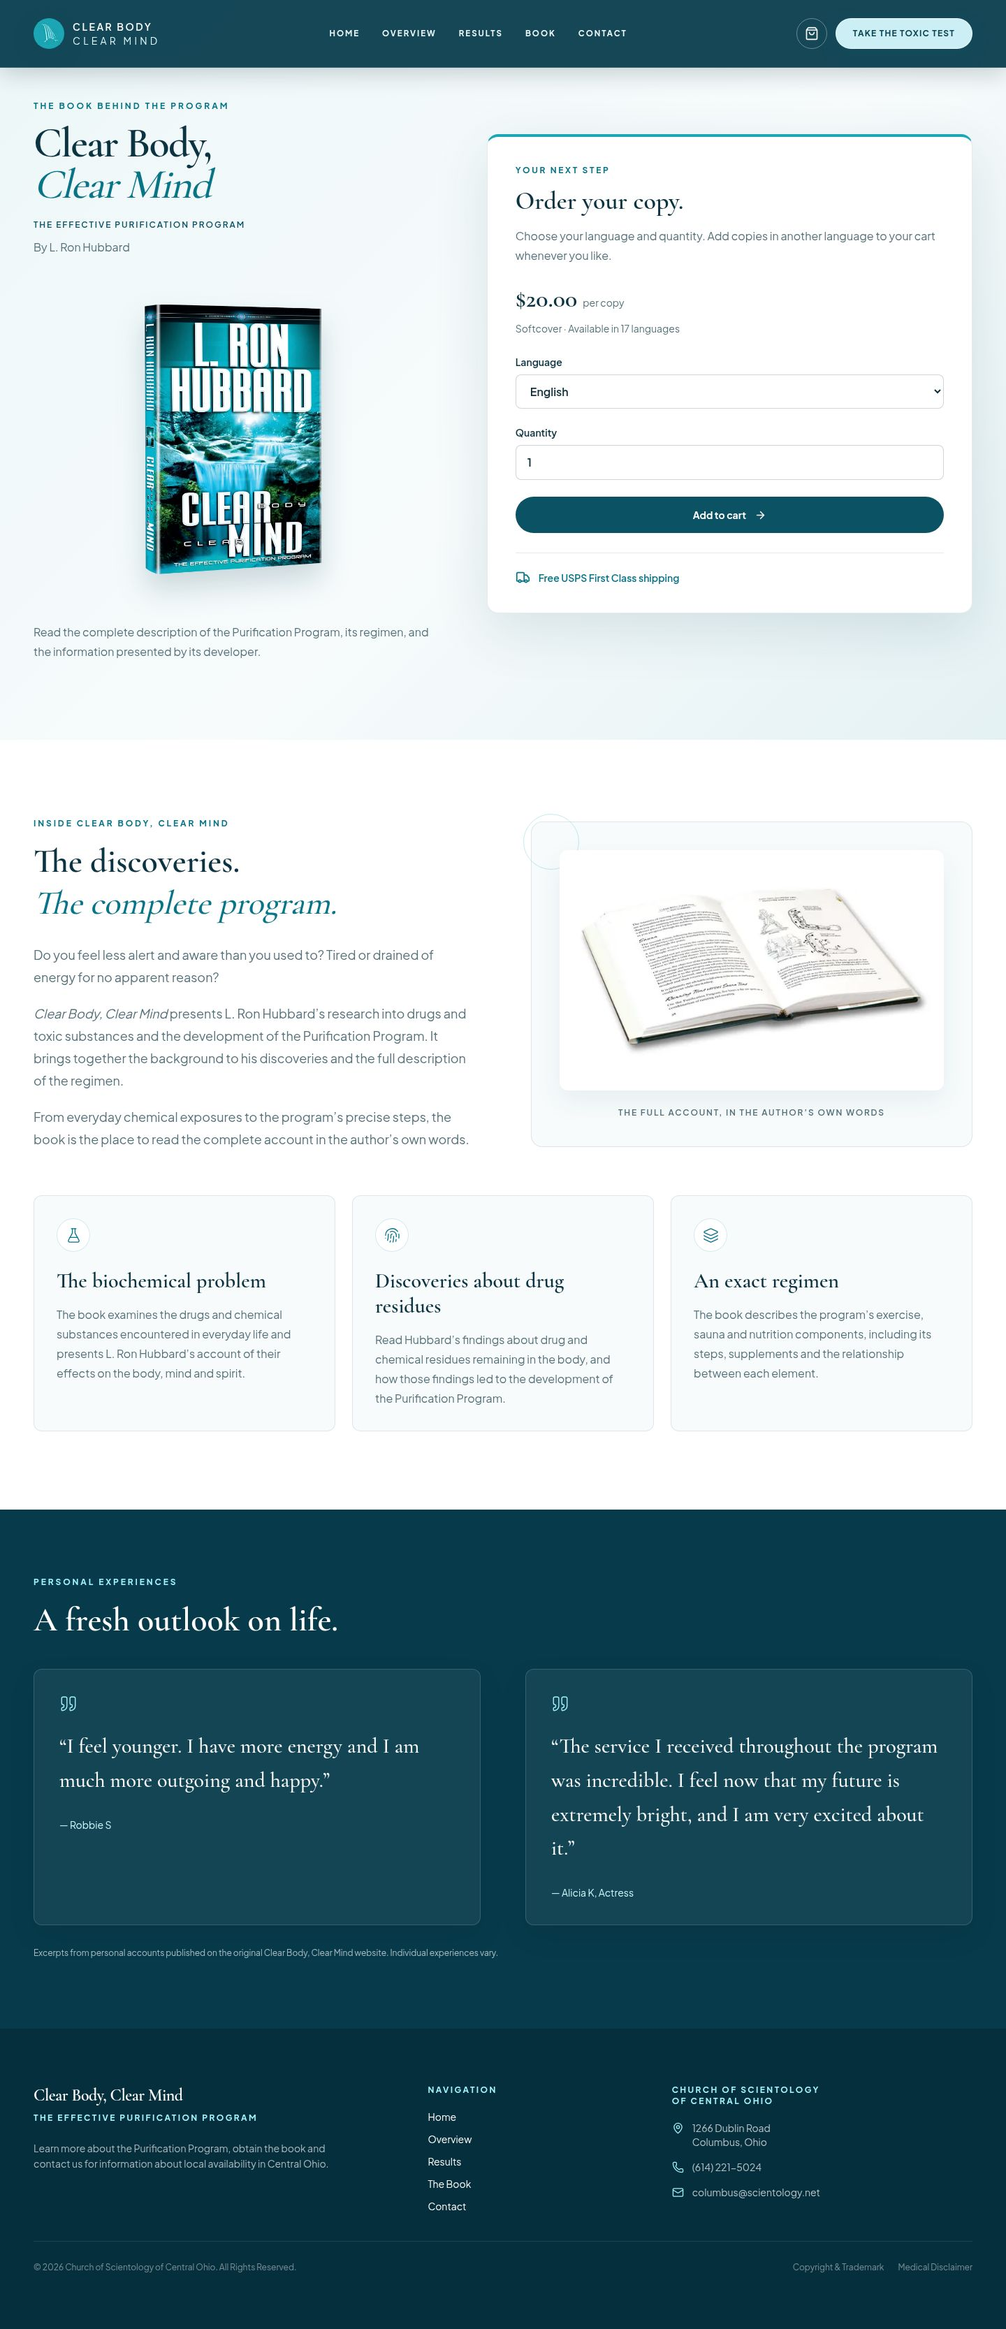
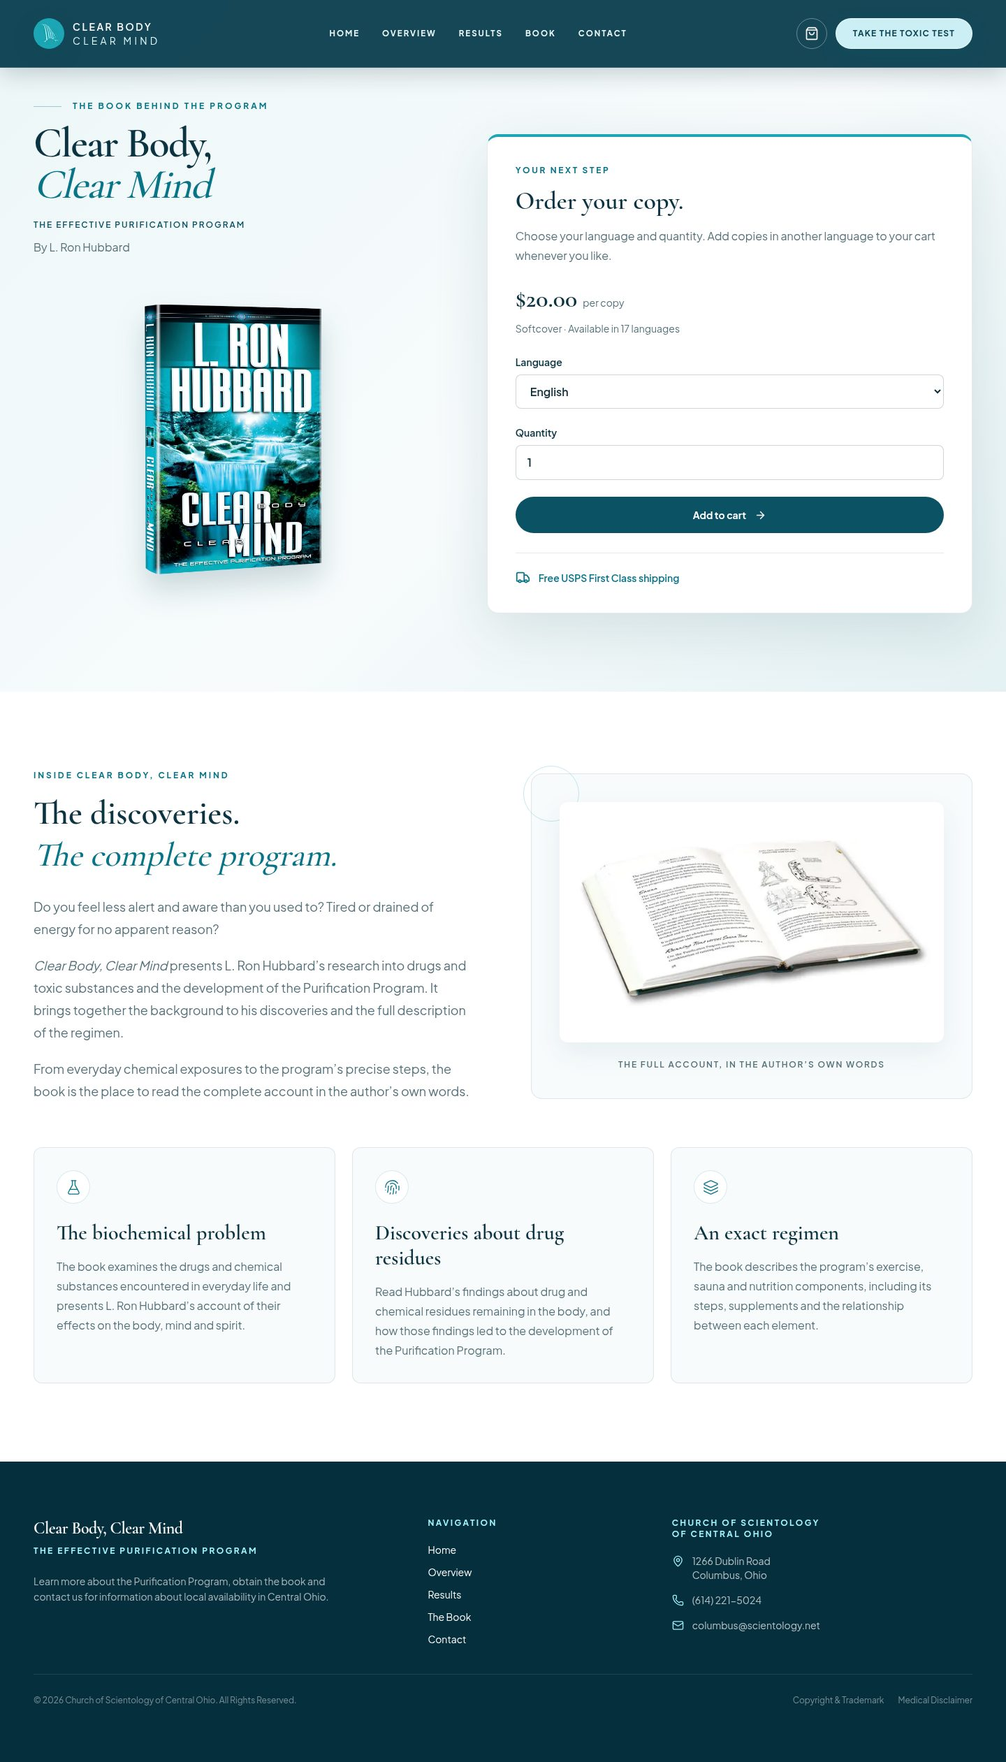
Refine all five pages with focused content, imagery, and layouts

diff --git a/components/program/FreshStart.tsx b/components/program/FreshStart.tsx
@@ -1,68 +1,23 @@
 import Image from "next/image";
+import ReportedGains from "@/components/program/ReportedGains";
 
 export default function FreshStart() {
   return (
-    <section className="relative isolate overflow-hidden bg-[#062f3d] text-white">
-      <div className="relative min-h-[800px] lg:min-h-[900px]">
-        <Image
-          src="/images/overview/fresh-start.png"
-          alt="A person looking toward a bright and expansive natural horizon"
-          fill
-          sizes="100vw"
-          className="object-cover object-center"
-        />
-
-        <div className="absolute inset-0 bg-[linear-gradient(90deg,rgba(2,30,41,0.94)_0%,rgba(2,30,41,0.82)_36%,rgba(2,30,41,0.4)_66%,rgba(2,30,41,0.16)_100%)]" />
-
-        <div className="absolute inset-0 bg-[linear-gradient(180deg,rgba(2,24,33,0.3)_0%,rgba(2,24,33,0.04)_38%,rgba(2,24,33,0.24)_70%,rgba(2,24,33,0.65)_100%)]" />
-
-        <div className="relative mx-auto flex min-h-[800px] w-full max-w-[1440px] items-center px-5 py-28 sm:px-8 lg:min-h-[900px] lg:px-12 lg:py-36">
-          <div className="relative max-w-3xl">
-            <div
-              aria-hidden="true"
-              className="pointer-events-none absolute -left-4 -top-20 hidden whitespace-nowrap font-display text-[90px] font-semibold leading-none tracking-[-0.07em] text-cyan-100/[0.07] lg:block xl:-left-10 xl:text-[122px]"
-            >
-              FRESH START
-            </div>
-
-            <div className="relative">
-              <div className="flex items-center gap-4">
-                <span className="h-px w-10 bg-cyan-200/65" />
-
-                <p className="text-xs font-bold uppercase tracking-[0.24em] text-cyan-100">
-                  Give Yourself a Fresh Start
-                </p>
-              </div>
-
-              <h2 className="mt-7 max-w-3xl font-display text-4xl font-semibold leading-[1.02] tracking-[-0.04em] text-white sm:text-5xl lg:text-7xl">
-                Step out of the fog and into a world that feels fresh and new.
-              </h2>
-
-              <div className="mt-8 max-w-2xl space-y-6 text-base leading-8 text-white/76 sm:text-lg sm:leading-9">
-                <p>
-                  The program is intended to free a person from the harmful
-                  effects attributed to past drugs and accumulated toxic
-                  residues, clearing the way for lasting mental and spiritual
-                  well-being.
-                </p>
-
-                <p>
-                  L. Ron Hubbard developed the Purification Program as a
-                  solution for addressing these substances and their continuing
-                  effects.
-                </p>
-
-                <p>
-                  People completing the program have reported a remarkable
-                  increase in vitality and a renewed ability to move forward
-                  toward greater things in life.
-                </p>
-              </div>
+    <section className="relative overflow-hidden bg-[#f7fbfc] px-5 py-20 sm:px-8 lg:px-12 lg:py-28" aria-labelledby="fresh-start-heading">
+      <div aria-hidden="true" className="pointer-events-none absolute -right-32 top-24 size-[520px] rounded-full bg-cyan-100/45 blur-3xl" />
+      <div className="relative mx-auto max-w-[1440px]">
+        <div className="grid items-center gap-10 lg:grid-cols-2 lg:gap-20">
+          <div>
+            <div className="flex items-center gap-4"><span className="h-px w-10 bg-[#087487]/35" /><p className="text-xs font-bold uppercase tracking-[0.24em] text-[#087487]">Give Yourself a Fresh Start</p></div>
+            <h2 id="fresh-start-heading" className="mt-7 font-display text-4xl font-semibold leading-tight tracking-[-0.03em] text-[#0c3341] sm:text-5xl">Step out of the fog and into a world that feels fresh and new.</h2>
+            <div className="mt-7 space-y-5 text-base leading-8 text-[#56717a] sm:text-lg">
+              <p>The program is intended to free a person from the harmful effects attributed to past drugs and accumulated toxic residues, clearing the way for lasting mental and spiritual well-being.</p>
+              <p>People completing the program have reported improvements in clarity, alertness, energy and enthusiasm, and a renewed ability to move forward in life.</p>
             </div>
           </div>
+          <div className="relative aspect-[5/4] overflow-hidden rounded-[1.75rem] bg-[#e5eff0] shadow-[0_20px_55px_rgba(10,64,78,0.1)]"><Image src="/images/overview/fresh-start.png" alt="A person looking toward a bright and expansive natural horizon" fill sizes="(max-width: 1023px) 100vw, 45vw" className="object-cover" /></div>
         </div>
-
-        <div className="pointer-events-none absolute bottom-0 left-0 right-0 h-56 bg-[linear-gradient(180deg,rgba(247,251,252,0)_0%,rgba(247,251,252,0.04)_16%,rgba(247,251,252,0.18)_38%,rgba(247,251,252,0.55)_68%,#f7fbfc_100%)] sm:h-64 lg:h-72" />
+        <ReportedGains />
       </div>
     </section>
   );

diff --git a/components/results/StoryCollection.tsx b/components/results/StoryCollection.tsx
@@ -13,7 +13,7 @@ const photos = [
 
 export default function StoryCollection() {
   return (
-    <section className="bg-[#f7fbfc] px-5 pb-20 pt-4 sm:px-8 lg:px-12 lg:pb-28 lg:pt-6" aria-label="Personal stories">
+    <section className="relative overflow-hidden bg-[#f7fbfc] px-5 pb-20 pt-4 sm:px-8 lg:px-12 lg:pb-28 lg:pt-6" aria-label="Personal stories">
       <div className="mx-auto max-w-[1120px]">
         <p className="max-w-2xl text-xs leading-6 text-[#56717a]">Photos are temporary AI illustrations for this design draft. They do not depict the people quoted.</p>
         <div className="mt-10 space-y-12 sm:space-y-16 lg:mt-12 lg:space-y-20">
@@ -22,9 +22,13 @@ export default function StoryCollection() {
             const reversed = index % 2 === 1;
             return (
               <article key={story.id} className={`grid items-center gap-7 md:gap-10 lg:gap-16 ${reversed ? "md:grid-cols-[1fr_280px] lg:grid-cols-[1fr_360px]" : "md:grid-cols-[280px_1fr] lg:grid-cols-[360px_1fr]"}`}>
-                <figure className={`relative mx-auto aspect-square w-full max-w-[320px] overflow-hidden rounded-xl bg-[#e5eff0] shadow-[0_15px_40px_rgba(10,64,78,0.07)] md:max-w-none ${reversed ? "md:order-2" : ""}`}>
-                  <Image src={`/images/placeholders/results-${photo.name}.webp`} alt={`AI illustration: ${photo.alt.toLowerCase()}; not the person quoted`} fill sizes="(max-width: 767px) 320px, (max-width: 1023px) 280px, 360px" className={`object-cover ${photo.position}`} />
-                </figure>
+                <div className={`relative isolate mx-auto w-full max-w-[320px] md:max-w-none ${reversed ? "md:order-2" : ""}`}>
+                  <div aria-hidden="true" className={`pointer-events-none absolute -top-12 -z-10 size-72 rounded-full bg-cyan-100/60 blur-3xl ${reversed ? "-right-12" : "-left-12"}`} />
+                  <div aria-hidden="true" className="pointer-events-none absolute -bottom-4 -right-4 -z-10 h-full w-[88%] rounded-[1.75rem] border border-[#087487]/10 bg-[#dff3f5]" />
+                  <figure className="relative aspect-square overflow-hidden rounded-[1.5rem] bg-[#e5eff0] shadow-[0_15px_40px_rgba(10,64,78,0.08)]">
+                    <Image src={`/images/placeholders/results-${photo.name}.webp`} alt={`AI illustration: ${photo.alt.toLowerCase()}; not the person quoted`} fill sizes="(max-width: 767px) 320px, (max-width: 1023px) 280px, 360px" className={`object-cover ${photo.position}`} />
+                  </figure>
+                </div>
                 <div>
                   <Quote size={24} strokeWidth={1.3} className="mb-4 text-[#087487]" aria-hidden="true" />
                   <h2 className="font-display text-3xl font-semibold leading-tight text-[#0c3341] sm:text-4xl">{story.title}</h2>

diff --git a/components/contact/LocalContact.tsx b/components/contact/LocalContact.tsx
@@ -4,18 +4,20 @@ import { ArrowUpRight, MapPin, Phone } from "lucide-react";
 
 export default function LocalContact() {
   return (
-    <section className="mx-auto grid w-full max-w-[1440px] gap-12 px-5 py-20 sm:px-8 lg:grid-cols-2 lg:items-start lg:gap-20 lg:px-12 lg:py-28">
+    <section className="mx-auto grid w-full max-w-[1440px] gap-12 px-5 pb-20 pt-32 sm:px-8 lg:grid-cols-2 lg:items-start lg:gap-20 lg:px-12 lg:pb-28 lg:pt-36">
       <div>
-        <figure>
-          <div className="relative aspect-[4/5] overflow-hidden bg-[#e4eff0] sm:aspect-[5/4]">
+        <div className="flex items-center gap-4"><span aria-hidden="true" className="h-px w-10 bg-[#087487]/35" /><p className="text-xs font-bold uppercase tracking-[0.24em] text-[#087487]">Questions?</p></div>
+        <h1 className="mt-4 font-display text-5xl font-semibold leading-tight text-[#0c3341] sm:text-6xl">Let’s talk.</h1>
+        <p className="mt-5 max-w-lg text-base leading-7 text-[#56717a]">Ask about the program, getting the book, or arranging a consultation.</p>
+        <figure className="mt-7">
+          <div className="relative aspect-[5/4] overflow-hidden bg-[#e4eff0] sm:aspect-[5/4]">
             <Image src="/images/placeholders/reception-concept.webp" alt="AI-generated concept of a bright reception lounge; not the Central Ohio facility" fill sizes="(max-width: 1023px) 100vw, 50vw" className="object-cover" />
             <span className="absolute bottom-5 left-5 right-5 w-fit bg-white/95 px-4 py-2 text-xs font-medium text-[#0c3341]">AI concept image · Local photography to follow</span>
           </div>
           <figcaption className="mt-3 text-xs leading-5 text-[#56717a]">Temporary image for layout review. This does not depict our facility.</figcaption>
         </figure>
         <div className="mt-7">
-          <p className="text-xs font-bold uppercase tracking-[0.24em] text-[#087487]">Here in Central Ohio</p>
-          <h2 className="mt-3 font-display text-3xl font-semibold leading-tight text-[#0c3341] sm:text-4xl">A conversation is a good place to start.</h2>
+          <h2 className="mt-3 font-display text-2xl font-semibold leading-tight text-[#0c3341] sm:text-3xl">Central Ohio Purification Center</h2>
           <address className="mt-5 space-y-5 text-sm not-italic leading-6 text-[#56717a]">
             <div className="flex gap-4">
               <MapPin size={20} className="mt-1 shrink-0 text-[#087487]" />

diff --git a/components/program/ReportedGains.tsx b/components/program/ReportedGains.tsx
@@ -29,42 +29,8 @@ const gains = [
 
 export default function ReportedGains() {
   return (
-    <section className="relative overflow-hidden bg-[#f7fbfc] py-24 sm:py-28 lg:py-36">
-      <div className="pointer-events-none absolute left-1/2 top-10 h-[560px] w-[760px] -translate-x-1/2 rounded-full bg-cyan-100/45 blur-3xl" />
-
-      <div className="relative mx-auto w-full max-w-[1240px] px-5 sm:px-8 lg:px-12">
-        <div className="relative mx-auto max-w-4xl text-center">
-          <div
-            aria-hidden="true"
-            className="pointer-events-none absolute left-1/2 top-[-60px] hidden -translate-x-1/2 whitespace-nowrap font-display text-[96px] font-semibold leading-none tracking-[-0.07em] text-[#087487]/[0.05] lg:block xl:text-[126px]"
-          >
-            RENEWAL
-          </div>
-
-          <div className="relative">
-            <div className="flex items-center justify-center gap-4">
-              <span className="h-px w-10 bg-[#087487]/35" />
-
-              <p className="text-xs font-bold uppercase tracking-[0.24em] text-[#087487]">
-                Reported Gains
-              </p>
-
-              <span className="h-px w-10 bg-[#087487]/35" />
-            </div>
-
-            <h2 className="mx-auto mt-7 max-w-3xl font-display text-4xl font-semibold leading-[1.04] tracking-[-0.04em] text-[#0c3341] sm:text-5xl lg:text-6xl">
-              What have people reported after completing the program?
-            </h2>
-
-            <p className="mx-auto mt-7 max-w-2xl text-base leading-8 text-[#56717a] sm:text-lg sm:leading-9">
-              Participants have described improvements in clarity, alertness,
-              energy and enthusiasm, helping clear the way for further mental
-              and spiritual progress.
-            </p>
-          </div>
-        </div>
-
-        <div className="mt-16 grid gap-5 sm:grid-cols-2 lg:mt-20 lg:grid-cols-4">
+    <div>
+        <div className="mt-12 grid gap-5 sm:grid-cols-2 lg:mt-16 lg:grid-cols-4">
           {gains.map(({ icon: Icon, title, description }) => (
             <article
               key={title}
@@ -101,7 +67,6 @@ export default function ReportedGains() {
           religious service and is not medical treatment. It is not intended to
           diagnose, treat or cure disease.
         </p>
-      </div>
-    </section>
+    </div>
   );
 }

diff --git a/components/home/ResultsPreview.tsx b/components/home/ResultsPreview.tsx
@@ -9,6 +9,7 @@ const stories = [
     attribution: "Robbie S.",
     image: "/images/results/success-1.jpg",
     imageAlt: "Purification Program success story",
+    position: "object-[50%_80%]",
   },
   {
     title: "Better Perceptions",
@@ -17,6 +18,7 @@ const stories = [
     attribution: "Lisa B.",
     image: "/images/results/success-2.JPG",
     imageAlt: "Purification Program participant success story",
+    position: "object-top",
   },
   {
     title: "A Brighter Future",
@@ -25,6 +27,7 @@ const stories = [
     attribution: "Alicia K.",
     image: "/images/results/success-3.JPG",
     imageAlt: "Clear Body Clear Mind success story",
+    position: "object-center",
   },
 ];
 
@@ -56,13 +59,13 @@ export default function ResultsPreview() {
               key={story.title}
               className="group flex min-h-full flex-col overflow-hidden border border-[#0c3341]/10 bg-[#f7fbfc] transition duration-500 hover:-translate-y-1 hover:shadow-[0_24px_60px_rgba(10,64,78,0.12)]"
             >
-              <div className="relative aspect-[4/3] overflow-hidden bg-[#dcecef]">
+              <div className="relative aspect-[4/5] overflow-hidden bg-[#dcecef]">
                 <Image
                   src={story.image}
                   alt={story.imageAlt}
                   fill
                   sizes="(max-width: 1024px) 100vw, 33vw"
-                  className="object-cover transition duration-700 group-hover:scale-[1.035]"
+                  className={`object-cover ${story.position}`}
                 />
 
                 <div className="absolute inset-0 bg-gradient-to-t from-[#062f3d]/35 via-transparent to-transparent" />

diff --git a/components/book/BookHero.tsx b/components/book/BookHero.tsx
@@ -3,14 +3,13 @@ import Image from "next/image";
 export default function BookHero() {
   return (
     <div>
-      <p className="text-xs font-bold uppercase tracking-[0.25em] text-[#087487]">The book behind the program</p>
+      <div className="flex items-center gap-4"><span aria-hidden="true" className="h-px w-10 bg-[#087487]/35" /><p className="text-xs font-bold uppercase tracking-[0.25em] text-[#087487]">The book behind the program</p></div>
       <h1 className="mt-4 font-display text-5xl font-semibold leading-[0.98] tracking-[-0.03em] text-[#0c3341] sm:text-6xl">Clear Body,<br /><span className="font-medium italic text-[#087487]">Clear Mind</span></h1>
       <p className="mt-5 text-xs font-semibold uppercase tracking-[0.16em] text-[#0c5265]">The Effective Purification Program</p>
       <p className="mt-3 text-base text-[#56717a]">By L. Ron Hubbard</p>
       <div className="relative mt-8 px-8 py-6 sm:py-8">
         <Image src="/images/book/clear-body-clear-mind-book.webp" alt="Clear Body, Clear Mind by L. Ron Hubbard" width={900} height={1280} preload sizes="(max-width: 639px) 60vw, 290px" className="mx-auto h-auto w-full max-w-[240px] drop-shadow-[0_22px_20px_rgba(7,59,75,0.18)] sm:max-w-[290px]" />
       </div>
-      <p className="mt-7 text-base leading-7 text-[#56717a]">Read the complete description of the Purification Program, its regimen, and the information presented by its developer.</p>
     </div>
   );
 }

diff --git a/components/program/ProgramCTA.tsx b/components/program/ProgramCTA.tsx
@@ -6,7 +6,7 @@ export default function ProgramCTA() {
     <section className="bg-[#073746] px-5 py-16 text-white sm:px-8 lg:px-12 lg:py-20">
       <div className="mx-auto grid max-w-[1280px] gap-8 md:grid-cols-[1fr_auto] md:items-center">
         <div className="max-w-2xl">
-          <h2 className="font-display text-4xl font-semibold leading-tight sm:text-5xl">Read the complete program.</h2>
+          <h2 className="font-display text-4xl font-semibold leading-tight sm:text-5xl">Read about the complete program.</h2>
           <p className="mt-5 text-base leading-7 text-white/75"><em>Clear Body, Clear Mind</em> by L. Ron Hubbard contains the full description of the regimen.</p>
         </div>
         <Link href="/book" className="inline-flex min-h-12 w-fit items-center justify-center gap-3 rounded-full bg-[#cceff5] px-7 text-sm font-bold !text-[#0b4353] transition hover:bg-white">Get the Book <ArrowRight size={17} /></Link>

diff --git a/app/results/page.tsx b/app/results/page.tsx
@@ -16,7 +16,7 @@ export default function ResultsPage() {
     <>
       <Header />
       <main>
-        <PageHero eyebrow="Successes & experiences" title="In their own words." description="Personal accounts from people who have completed the Purification Program." imageSrc="/images/hero/waterfall-hero.png" imageAlt="Waterfall flowing through a green forest" />
+        <PageHero eyebrow="Successes and experiences" title={<>In their <span className="font-medium italic text-cyan-100">own words.</span></>} description="Personal accounts from people who have completed the Purification Program." imageSrc="/images/hero/waterfall-hero.png" imageAlt="Waterfall flowing through a green forest" />
         <StoryCollection />
         <section className="border-t border-[#0c3341]/10 bg-white px-5 py-16 sm:px-8 lg:px-12">
           <div className="mx-auto grid max-w-[1440px] gap-8 lg:grid-cols-[1fr_auto] lg:items-center">

diff --git a/components/layout/PageHero.tsx b/components/layout/PageHero.tsx
@@ -1,8 +1,9 @@
 import Image from "next/image";
+import type { ReactNode } from "react";
 
 type PageHeroProps = {
   eyebrow: string;
-  title: string;
+  title: ReactNode;
   description: string;
   imageSrc: string;
   imageAlt: string;
@@ -31,7 +32,8 @@ export default function PageHero({
 
       <div className="relative mx-auto flex min-h-[520px] w-full sm:min-h-[560px] max-w-[1440px] items-end px-5 pb-24 pt-36 sm:px-8 sm:pb-28 lg:px-12">
         <div className="max-w-3xl text-white">
-          <p className="mb-5 text-xs font-bold uppercase tracking-[0.3em] text-cyan-100 sm:text-sm">
+          <p className="mb-5 flex items-center gap-4 text-xs font-bold uppercase tracking-[0.3em] text-cyan-100 sm:text-sm">
+            <span aria-hidden="true" className="h-px w-10 shrink-0 bg-cyan-200/80 sm:w-14" />
             {eyebrow}
           </p>
 

diff --git a/components/program/Precision.tsx b/components/program/Precision.tsx
@@ -88,12 +88,12 @@ export default function Precision() {
 
               <div className="absolute bottom-5 left-5 right-5 rounded-2xl border border-white/20 bg-[#062f3d]/58 p-5 text-white shadow-lg backdrop-blur-md sm:bottom-7 sm:left-7 sm:right-auto sm:max-w-sm sm:p-6">
                 <p className="text-xs font-bold uppercase tracking-[0.2em] text-cyan-100">
-                  Exact Application
+                  Specialist Staff
                 </p>
 
                 <p className="mt-3 text-sm leading-6 text-white/80">
-                  Every component works as part of a carefully defined and
-                  precisely administered regimen.
+                  Our specialist staff are specifically trained in the
+                  Purification Program and its delivery.
                 </p>
               </div>
             </div>

diff --git a/app/contact/page.tsx b/app/contact/page.tsx
@@ -2,7 +2,6 @@ import type { Metadata } from "next";
 import LocalContact from "@/components/contact/LocalContact";
 import Header from "@/components/layout/Header";
 import Footer from "@/components/layout/Footer";
-import PageHero from "@/components/layout/PageHero";
 
 export const metadata: Metadata = {
   title: "Contact | Clear Body, Clear Mind Central Ohio",
@@ -13,13 +12,6 @@ export default function ContactPage() {
     <>
       <Header />
       <main>
-        <PageHero
-          eyebrow="Central Ohio"
-          title="Let’s talk."
-          description="Request more information, ask a question, or speak with someone about the program."
-          imageSrc="/images/hero/waterfall-hero.png"
-          imageAlt="Calm waterfall and surrounding forest"
-        />
         <LocalContact />
       </main>
       <Footer />

diff --git a/components/program/EnvironmentalToxins.tsx b/components/program/EnvironmentalToxins.tsx
@@ -62,8 +62,8 @@ export default function EnvironmentalToxins() {
 
             <div className="relative min-h-[500px] overflow-hidden rounded-[1.75rem] shadow-[0_30px_80px_rgba(10,64,78,0.16)] sm:min-h-[620px] lg:min-h-[700px]">
               <Image
-                src="/images/overview/environmental-chemicals.png"
-                alt="Everyday household, environmental and consumer substances"
+                src="/images/overview/chemical-exposure-editorial.webp"
+                alt="Editorial illustration of packaged foods, household chemicals and an industrial setting"
                 fill
                 sizes="(max-width: 1024px) 100vw, 50vw"
                 className="object-cover"
